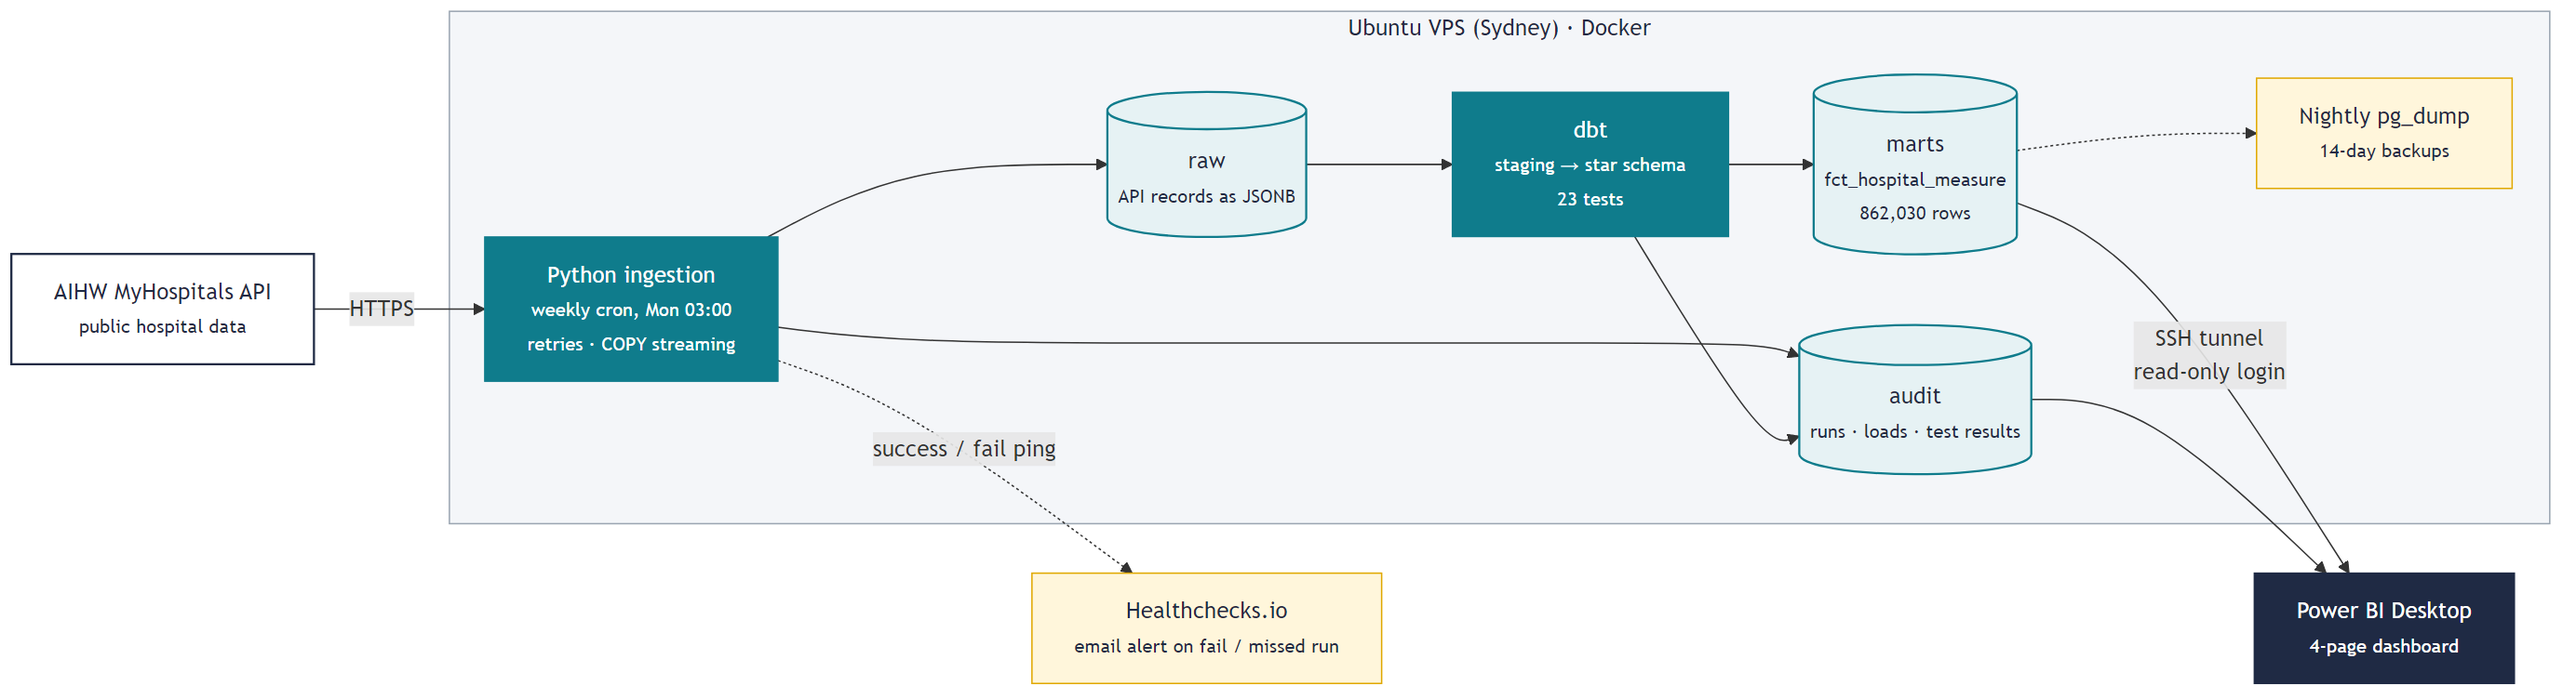
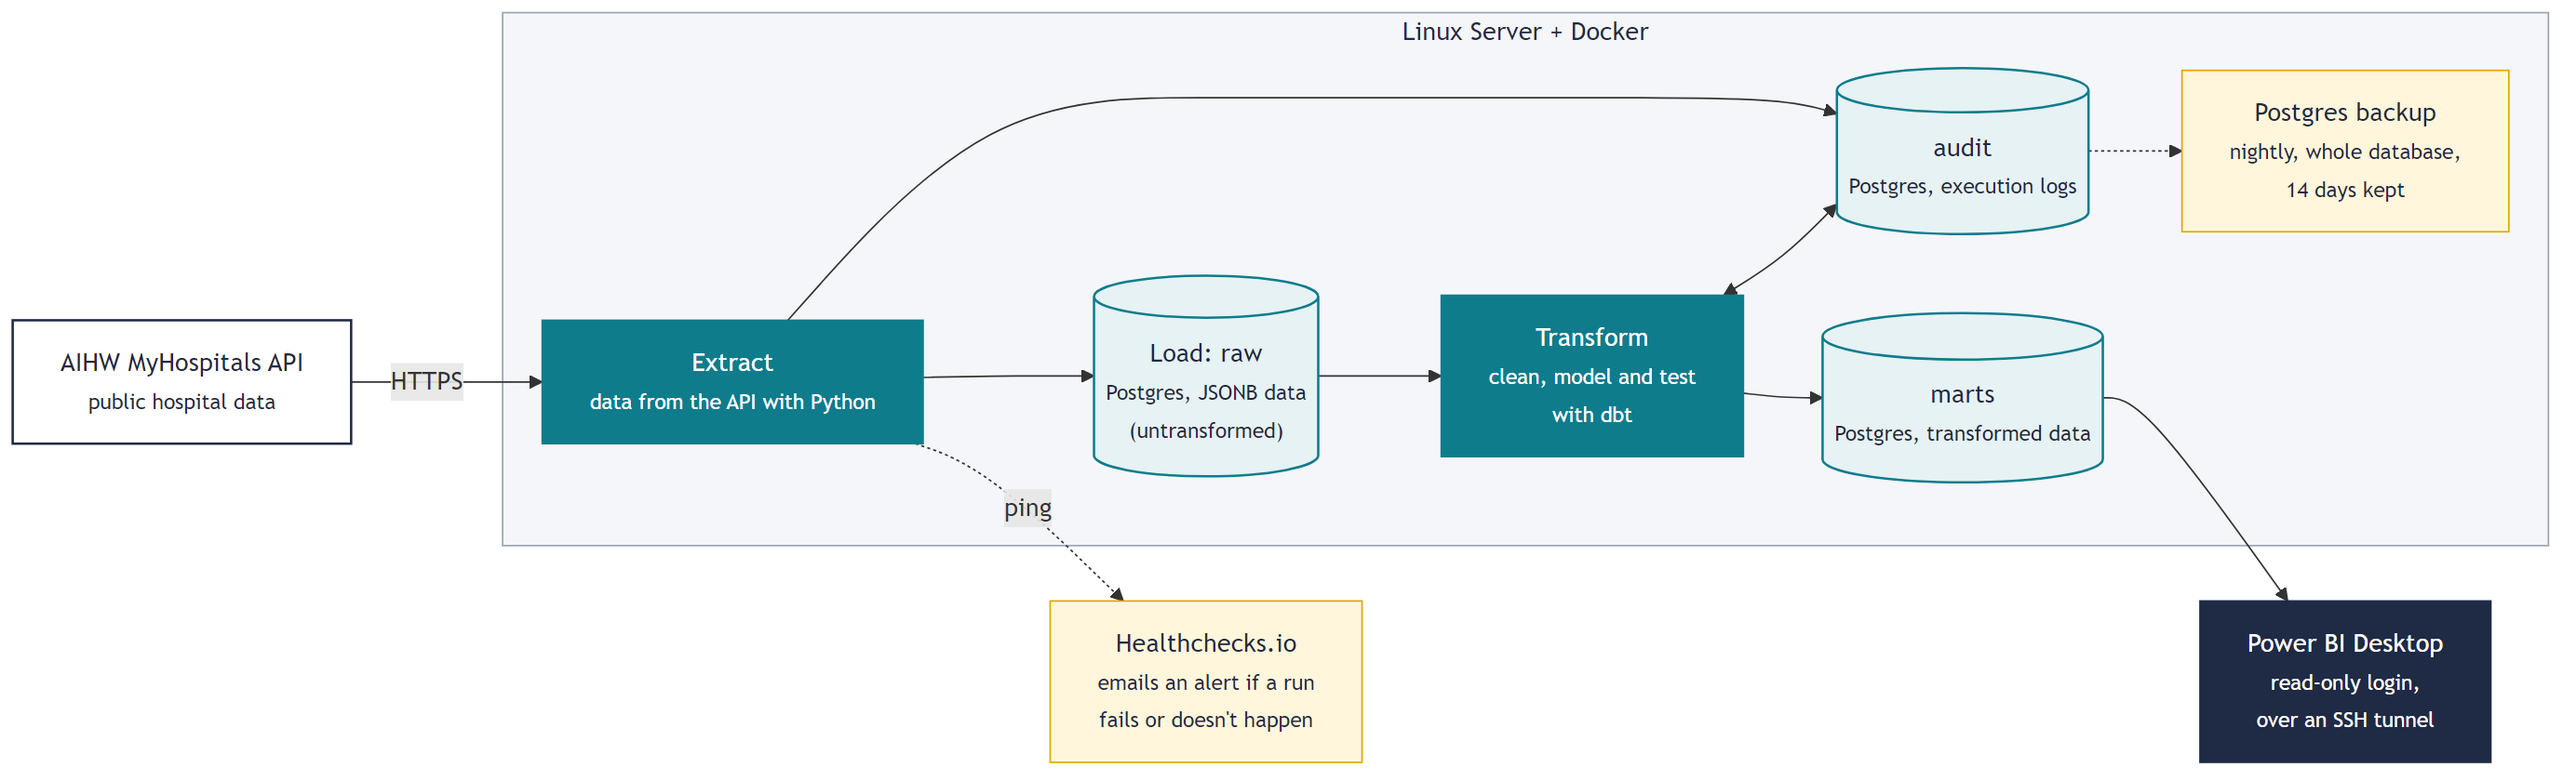
Redraw architecture diagram: extract-load-transform labels, Power BI reads marts only, backup on the server

diff --git a/README.md b/README.md
@@ -10,7 +10,7 @@ Public hospital data is only useful if people can trust it and it stays current.
 
 ## Architecture
 
-![Architecture: AIHW API to Python ingestion, Postgres raw/marts/audit and dbt on a VPS, then Power BI over an SSH tunnel](docs/images/architecture.png)
+![Architecture: on a Linux server with Docker, Python extracts from the AIHW API into raw Postgres tables, dbt transforms them into marts and logs to audit, and Power BI reads the marts over an SSH tunnel](docs/images/architecture.png)
 
 <sub>Diagram source: [`docs/images/architecture.mmd`](docs/images/architecture.mmd) (Mermaid).</sub>
 
